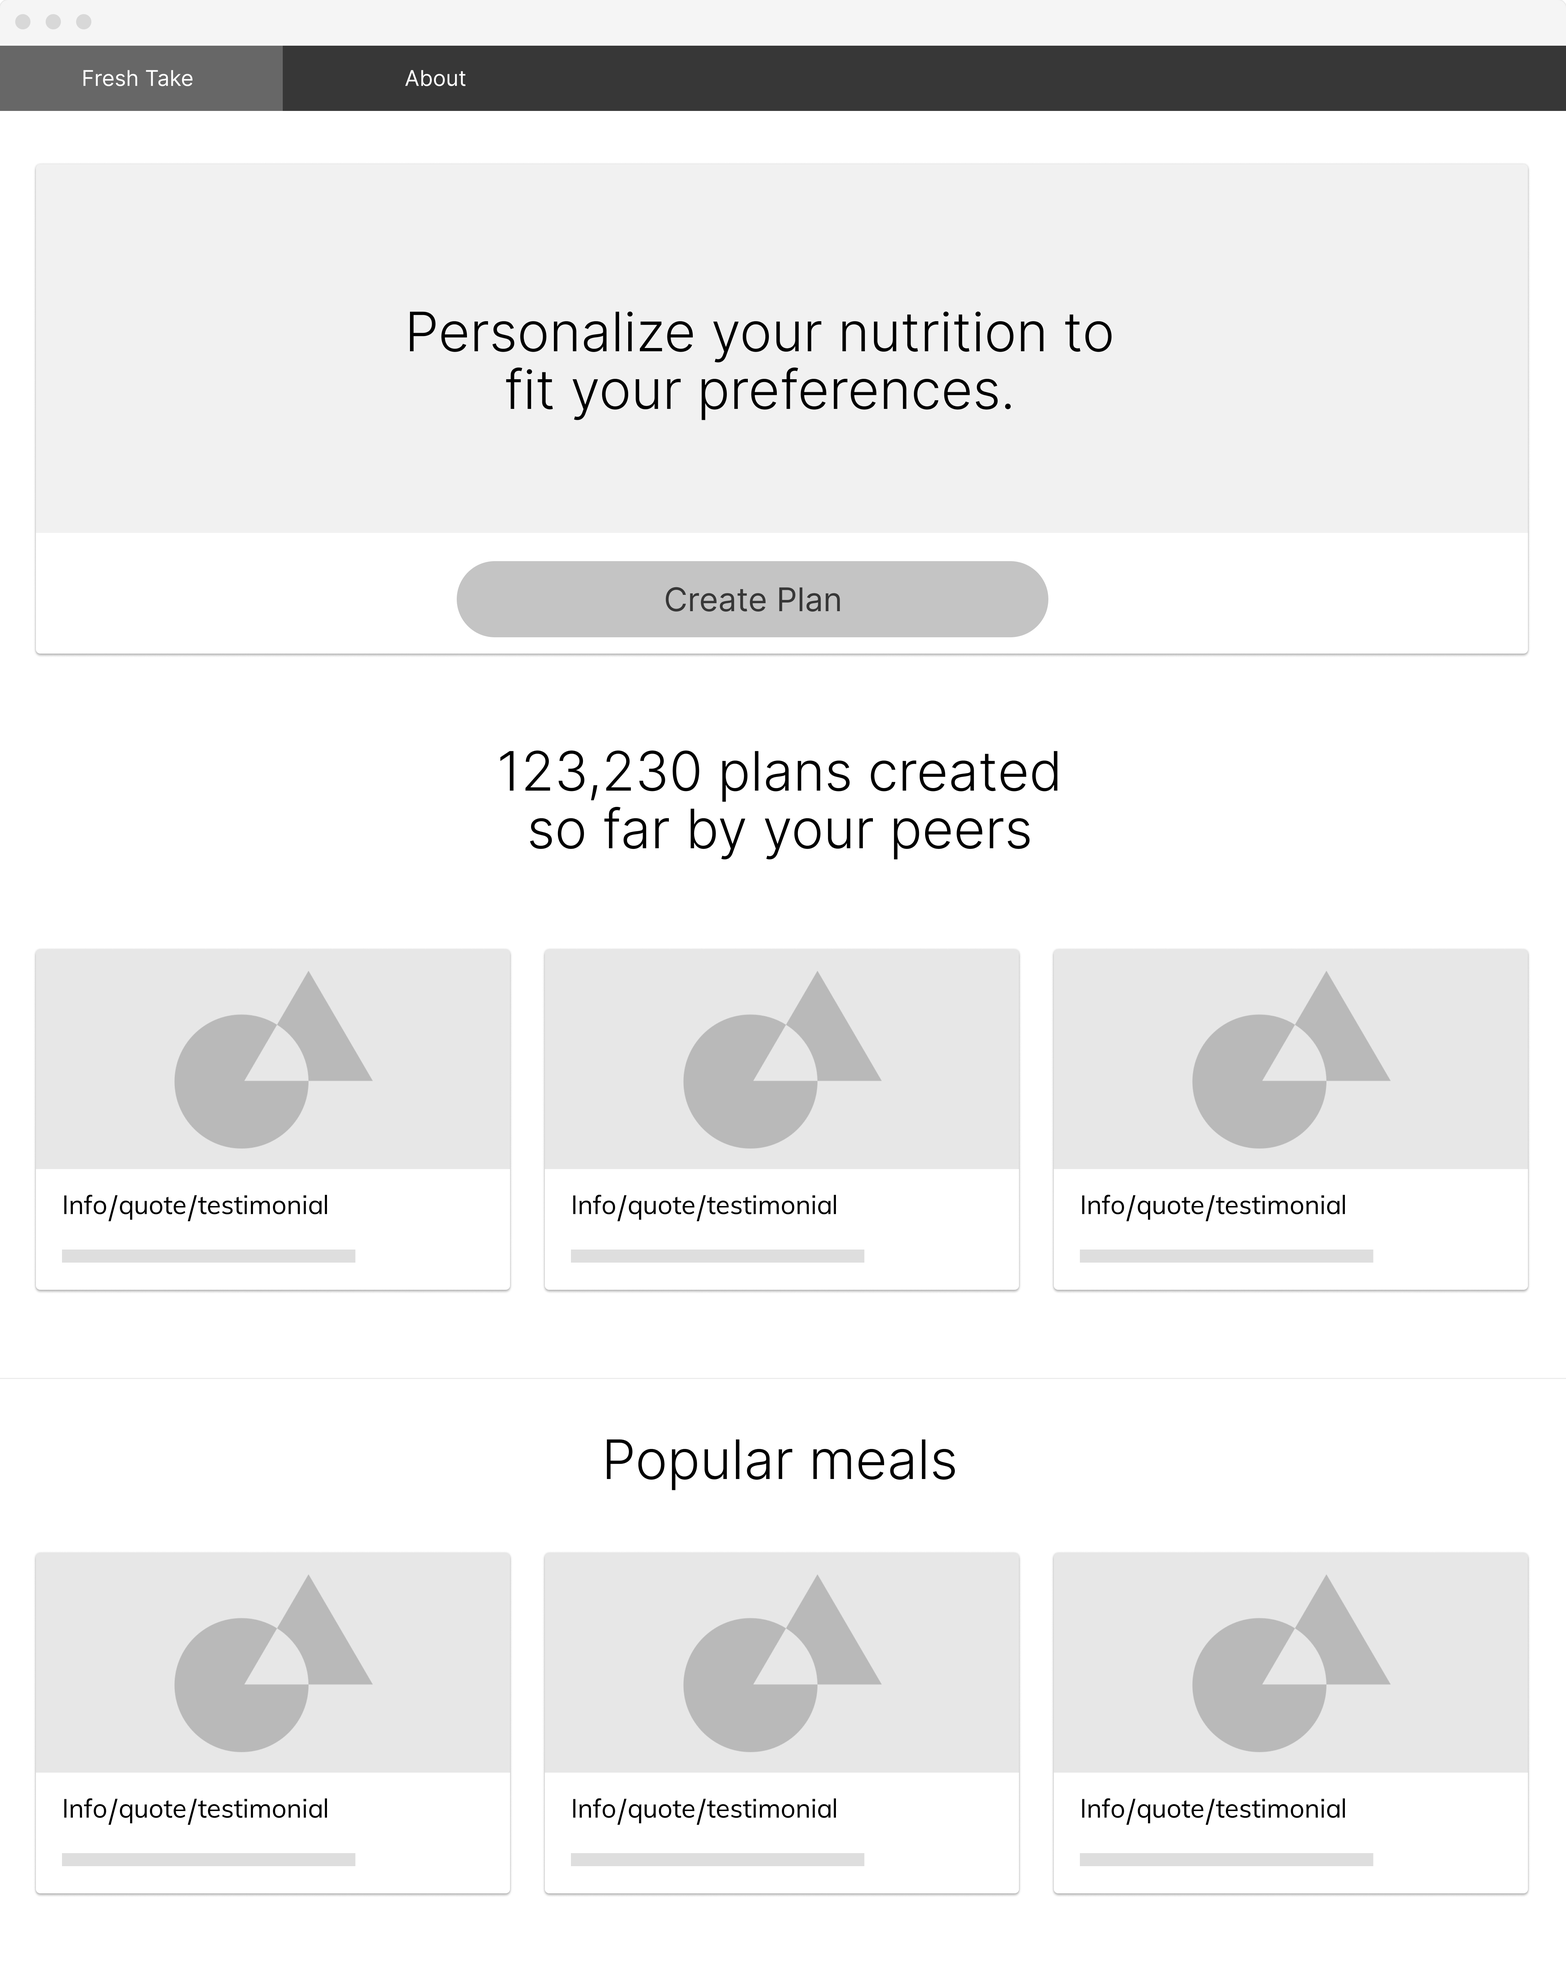
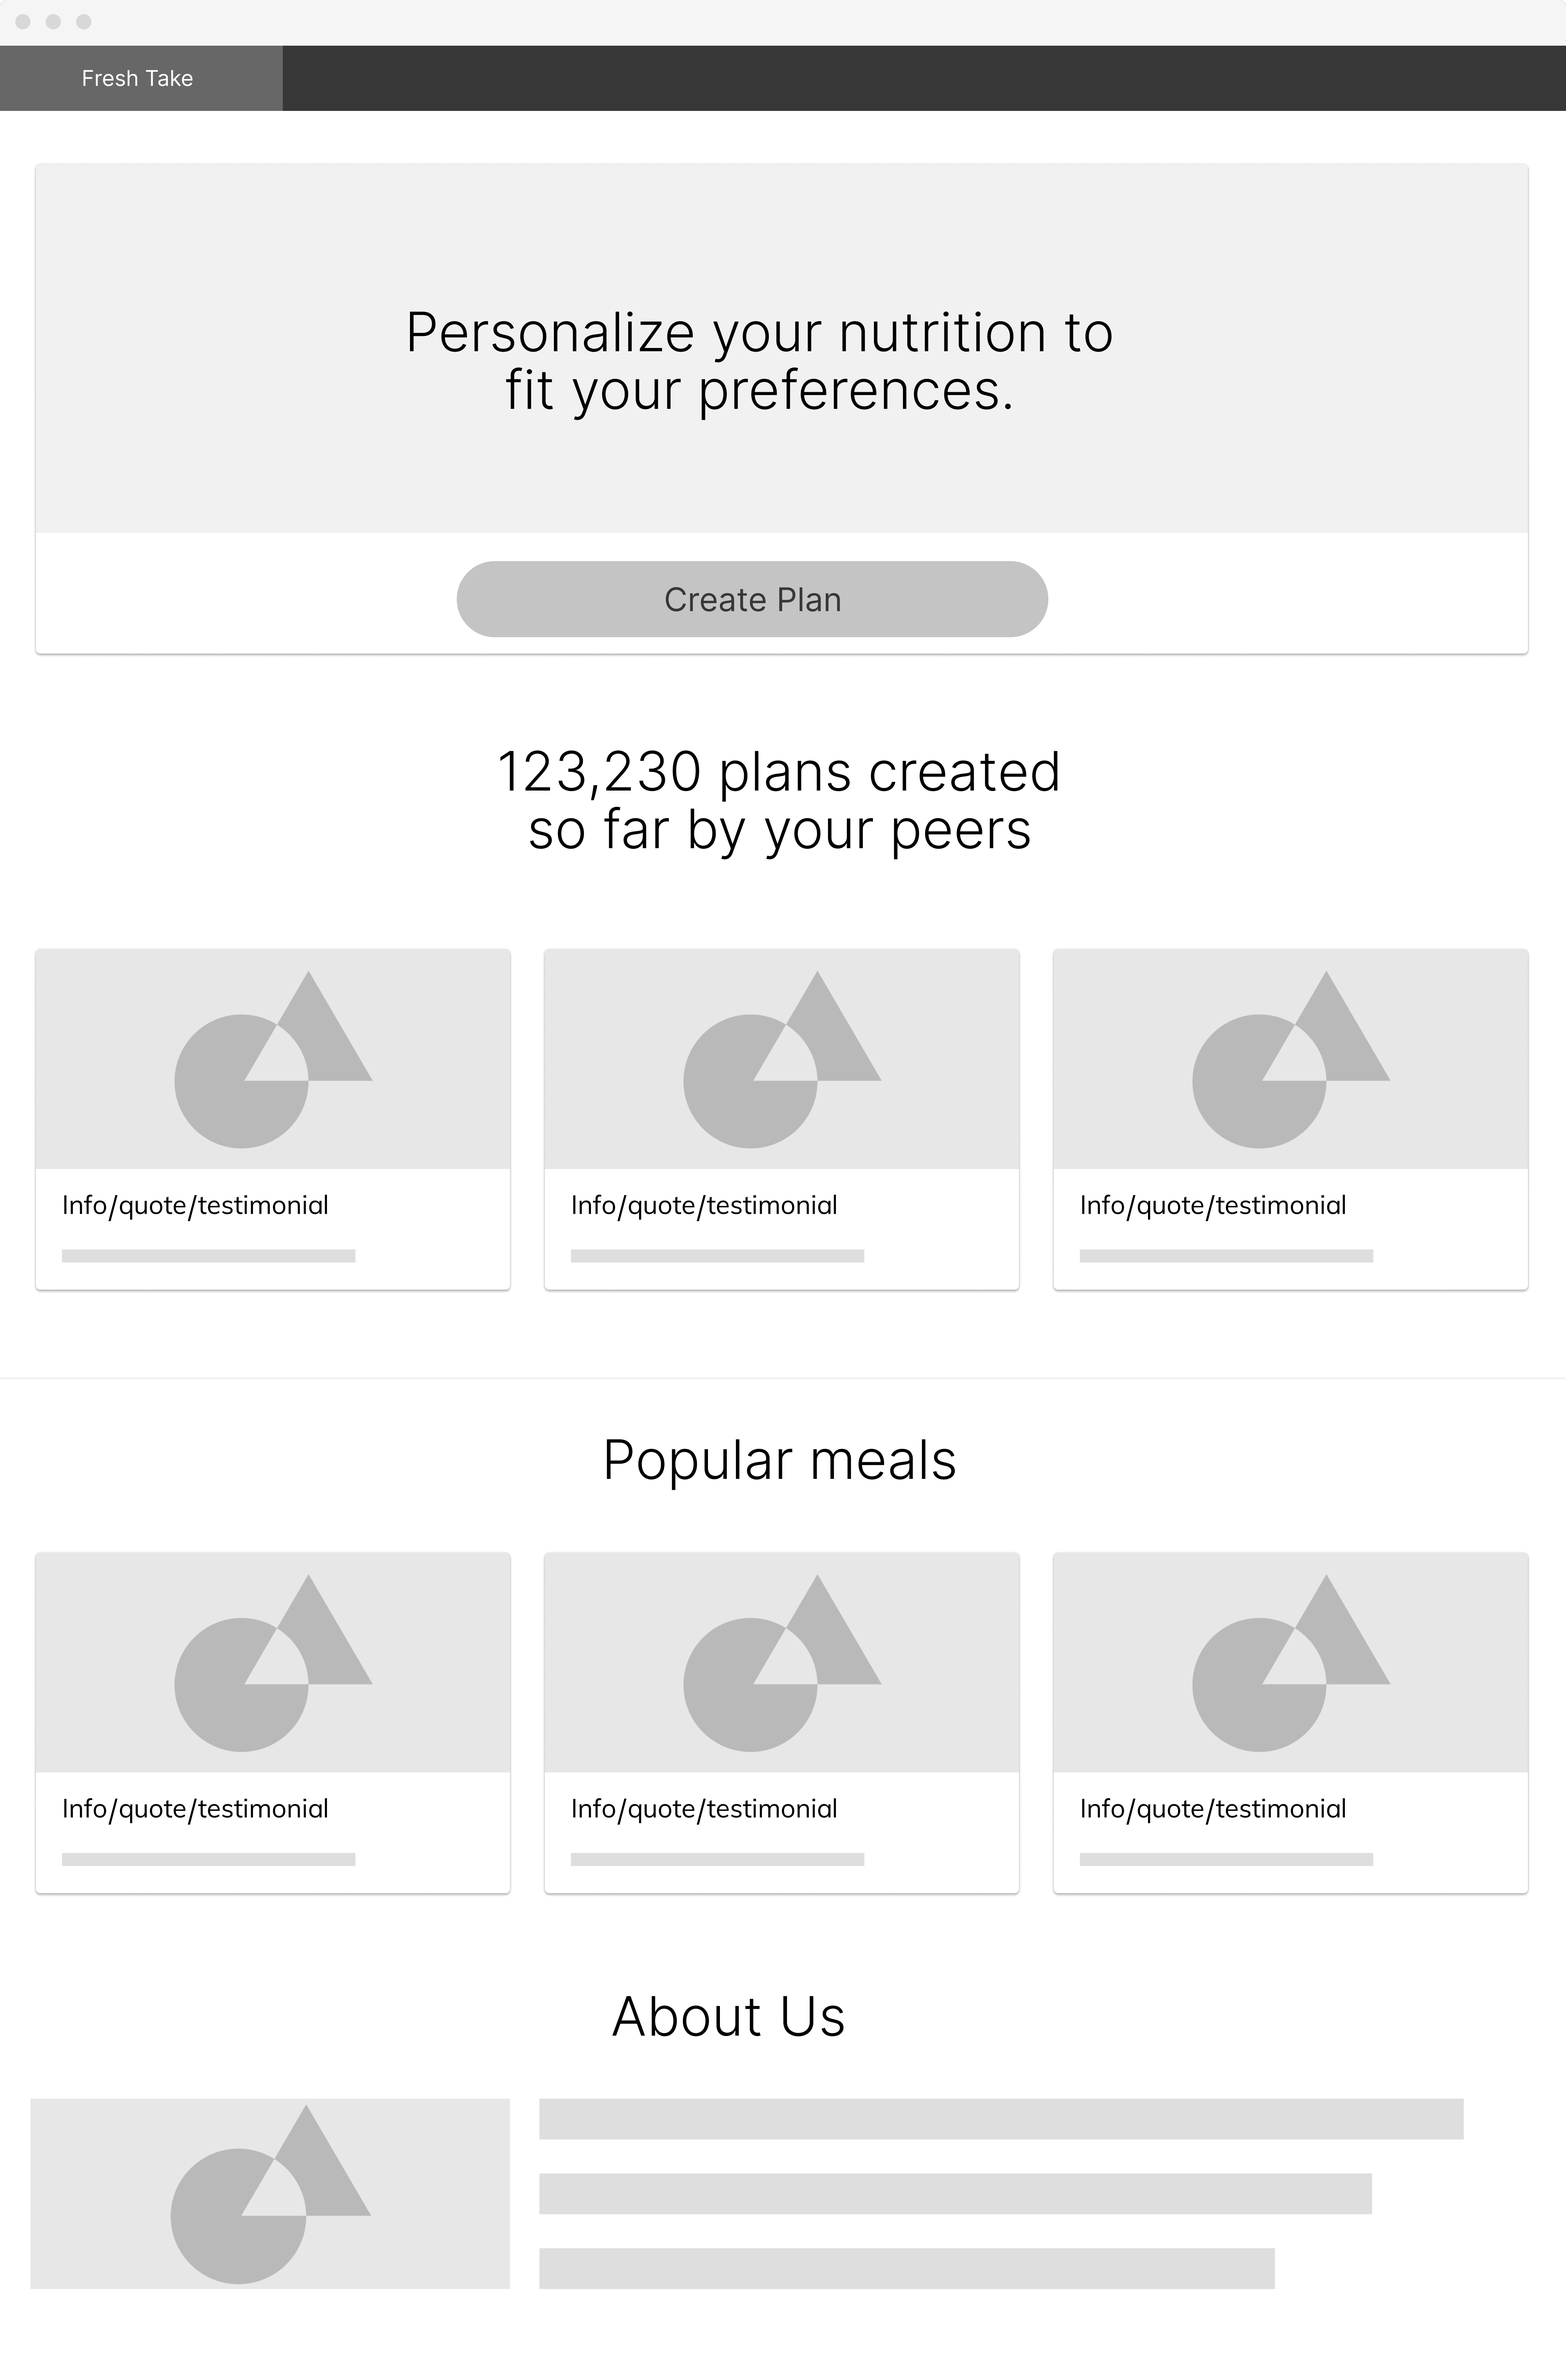
edit hw 2 resubmit

diff --git a/homework-2/README.md b/homework-2/README.md
@@ -26,13 +26,16 @@ Popular meal cards: A maximum of 6 popular meals should be shown on the home pag
 <br></br>
 __Popular meal cards:__ A maximum of 6 popular meals should be shown on the home page at once. Each meal card redirects to an external hyperlink showing the recipe.
 <br></br>
+__About Us:__ The About Us section displays text blurbs of creators and profile photos. Image and text should be displayed horizontally side-by-side if the viewport is wider such as on a desktop view, and should be act responsively on narrower mobile views with a stacked image on top and text blurb below.
+
+<br></br>
 ## Create Plan Survey ##
 ### Name ###
 ![NameInfo](img/2_name.png)<br></br>
 After selecting the Create Plan button on the landing page, the user is directed into a new page in a slideshow card modal display. A user may enter their name in the input box. If no input is entered, the box is blank and the Continue button is disabled and they will not be able to proceed forward. The user can click on the left Back button at any time, and on this first slide the Back button will lead them back to the landing page. On the bottom is a progress bar that increases each time to press Continue to go to the next question, proportional to the amount of questions the survey has.
 ### Tell Us About Yourself ###
 ![YourPersonalInfo](img/3_personal_info.png)<br></br>
-Height, age, and weight are all text entry inputs that require a number. If an alphabetical character is inputted in any of these, an error message pops up right above the Continue button that says “Enter a number for one of your inputs.” Physical activity level is a drop down with the options “Little to no activity,” “Moderate activity,” “High activity.” If one of the inputs are empty (excluding the input next to “in” for Height), then the Continue button is disabled. Pressing the back button will not store any of the correct information and then go back to the previous slide (Name).
+Height, age, and weight are all text entry inputs that require a number. If an alphabetical character is inputted in any of these, an error message pops up right above the Continue button that says “Enter a number for one of your inputs.” Physical activity level is a drop down with the options “Little to no activity,” “Moderate activity,” “High activity.” If one of the inputs are empty (excluding the input next to “in” for Height and Gender, which are not required), then the Continue button is disabled. Pressing the back button will not store any of the correct information and then go back to the previous slide (Name).
 
 Height, age, and weight information will be stored into an equation that calculates the recommended calorie amount and food portion sizes provided to the user after completing the survey. Physical activity level will also be calculated with height, age, and weight into an equation that suggests the minutes of physical activity.
 ### Budget ###
@@ -54,14 +57,9 @@ Depending on the user's answer choice, it will signal the relevant tagged datase
 
 ### Results ###
 ![Results](img/8_results.png)<br></br>
-Name: From the submitted name that the user provides, call in the input to replace {name}.
 
 __Recommendations:__ All calories, serving sizes of fruits and vegetables, cups of water, and exercise should be calculated from the personal information of weight, age, height, and physical activity. Each calculation is based on a separate equation that will be used from existing research/calculations around nutritional standards.
 
 __Curated nutrition tips for you:__ Advice and resources personalized to the user are provided here, which the team will curate from online existing nutrition publications and articles, verified with credible sources based on nutritional research. These resources are selected based on the survey answers from the goal setting preferences in addition to the budget question. For example, if the user qualifies for the budget number cutoff, there will be resources linked around the topic, in addition to tagged advice tips surrounding budgeting with food. The resource cards below the pre-written advice tips hyperlink to external sources, or are attachments that they can read and use.
 
 __Suggested meals:__ Suggested meals list a range from 3 - 6 cards curated from their preferences picked in the Cuisine question. If they selected that their food and vegetables were not accessible, the recipes that are tagged as “accessible” should only appear here as well. All cards should be linked to external hyperlinks verified by our project team.
-
-### About Us ###
-![AboutUs](img/9_about.png)<br></br>
-About Us page is accessed by clicking About on the Nav Bar, and the tab is highlighted when the page is visited. This is primarily a read-only page with text blurbs of creators and profile photos.
